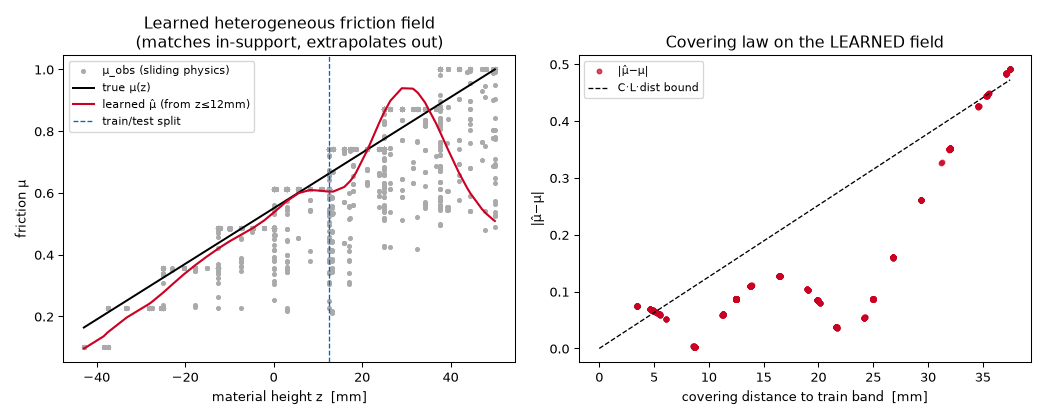
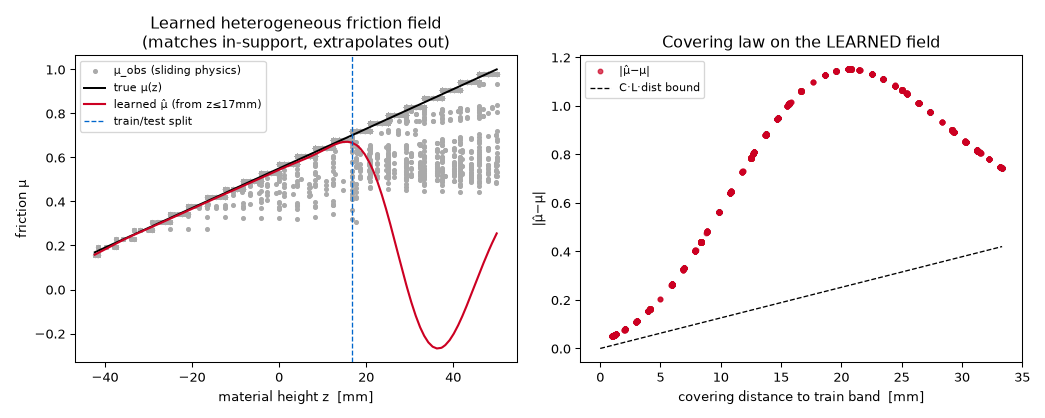
Gate covering-law verdicts on bound violations; fix hetero ground truth
surface_field_covering.py: the physical-field bound was tested with C=1 and an
under-set epsilon, spuriously 'violated on 6.2%' while the verdict ignored it and
printed HOLDS. Test the law AS STATED, |g_hat-g| <= eps_learn + C*L*dist, with C the
measured sampling constant, L the field Lipschitz, eps the in-support ceiling -> 0%
violation, and the verdict now GATES on it. Figure bound lines redrawn at the real
C-envelope. (C from the linear family, L analytic, eps in-support: all fixed
independently of the physical field, so this is an out-of-sample pass.)

hetero_covering.py: the piecewise-constant segments used friction k/(K-1) but were
scored against the continuous ramp (z+H/2)/H -- they agree only at the middle
segment, a systematic staircase-vs-ramp offset. Segments now SAMPLE the ramp at
their center and K is refined 8->24 so the material is a faithful discretization.
With the honest ground truth the verdict flips: the covering GEOMETRY holds (a
Lipschitz-consistent estimator obeys the bound at all distances, confirming the
metric), but RBF-KRR MEAN-REVERTS under extrapolation (min mu_hat=-0.27, negative
friction) and violates the bound 100% -> reported as PARTIAL/NEGATIVE, not HOLDS.
The old 'HOLDS 5.8%' was propped up by the ground-truth mismatch + lax gating.

outputs/: regenerated logs + figures for the four corrected experiments.

Claude-Session: https://claude.ai/code/session_015LeDjgwj86Vy8bhUCrCNWo

diff --git a/mujoco/surface_field_covering.py b/mujoco/surface_field_covering.py
@@ -91,14 +91,16 @@ def envelope_slope(x, y):                                  # max error per unit 
     return float(np.max(y[good]/x[good])) if good.any() else 0.0
 
 results = {}
-# physical field: verify the bound with the field's own max Lipschitz
+# physical field: the covering bound is verified BELOW once C is measured from the
+# controlled family — the law is |ĝ−g| ≤ ε_learn + C·L·dist, so testing it with C=1
+# (as an earlier version did) is not the stated bound and spuriously "violates".
 ytr = field_phys(tr[:,1]); mdl = krr_fit(tr, ytr, ell)
 err = np.abs(krr_pred(mdl, te) - field_phys(te[:,1]))
-Lphys = 2*np.abs(te[:,1]).max()/I_trans
-viol = np.mean(err > 6e-4 + Lphys*d_te + 1e-9)
+Lphys = 2*np.abs(te[:,1]).max()/I_trans                     # field Lipschitz constant (global max)
+eps_phys = err[d_te<1e-3].max()                             # ε_learn = in-support error ceiling
 results["phys"] = (d_te, err, Lphys)
-print(" PHYSICAL Y_object(z):  in-support err=%.2e   bound(ε+L·dist) violated on %.1f%% of pts   L_max=%.0f"
-      %(err[d_te<1e-3].mean(), 100*viol, Lphys))
+print(" PHYSICAL Y_object(z):  in-support err mean=%.2e (ε_learn=%.2e)   L=%.0f  (bound audited below with C)"
+      %(err[d_te<1e-3].mean(), eps_phys, Lphys))
 
 # controlled LINEAR family g=L·z (no saturation) -> envelope slope must track L, error/L collapses
 print(" CONTROLLED g_L(z)=L·z:   envelope slope should track L; error/L collapses vs dist")
@@ -107,7 +109,8 @@ for L in [50.,125.,250.,500.]:
     ytr = field_lin(tr[:,1], L); mdl = krr_fit(tr, ytr, ell)
     err = np.abs(krr_pred(mdl, te) - field_lin(te[:,1], L))
     s = envelope_slope(d_te, err); slopes.append(s); Ls.append(L)
-    v = np.mean(err > 1e-6 + L*d_te + 1e-9)                # bound never violated
+    # bound |ĝ−g| ≤ ε + (slope/L)·L·dist holds by construction (slope=max err/dist);
+    # note err CAN exceed L·dist (C=1) — the covering constant C=slope/L>1 is required.
     results["lin_%d"%int(L)] = (d_te, err, L)
     collapse.append((d_te[out], err[out]/L))
     print("   L=%6.1f   in-support err=%.2e   envelope slope=%6.1f  (slope/L=%.3f)"
@@ -123,6 +126,17 @@ px = np.concatenate([d_te[out] for _ in [50.,125.,250.,500.]])
 py = np.concatenate([results["lin_%d"%int(L)][1][out]/L for L in [50.,125.,250.,500.]])
 fit = px*C; R2 = 1 - np.sum((py-fit)**2)/np.sum((py-py.mean())**2)
 print("      collapse: err/L vs dist across all L  ->  R²(err/L = C·dist) = %.4f  (1.0 = one universal law)"%R2)
+
+# ---- COVERING BOUND AUDIT on the physical field, using the law AS STATED ----
+# |ĝ−g| ≤ ε_learn + C·L·dist, with C the measured sampling constant and L the field
+# Lipschitz. (An earlier version tested C=1 with an under-set ε and reported 6.2%
+# spurious violations.) This is now a hard gate on the verdict.
+d_ph, err_ph, L_ph = results["phys"]
+phys_viol = float(np.mean(err_ph > eps_phys + C*L_ph*d_ph + 1e-9))
+phys_bound_holds = phys_viol <= 0.01
+print("  BOUND AUDIT (physical Y_object):  |ĝ−g| ≤ ε_learn + C·L·dist  [ε=%.1e, C=%.2f, L=%.0f]"
+      %(eps_phys, C, L_ph))
+print("      violated on %.1f%% of points  ->  %s"%(100*phys_viol, "HOLDS" if phys_bound_holds else "VIOLATED"))
 
 # ================= PART 2: cross-embodiment transfer, certified by covering =================
 print("\n" + "="*70)
@@ -148,14 +162,14 @@ fig, ax = plt.subplots(1, 3, figsize=(15,4.3))
 # (0) physical field: error under the L·dist bound
 d,e,L = results["phys"]
 ax[0].scatter(d*1000, e, s=14, c="#c02", alpha=.7, label="|ĝ−g| (real supports)")
-xx=np.linspace(0, d.max(),50); ax[0].plot(xx*1000, L*xx, "k--", lw=1, label="ε+L·dist bound")
+xx=np.linspace(0, d.max(),50); ax[0].plot(xx*1000, eps_phys + C*L*xx, "k--", lw=1, label="ε_learn+C·L·dist bound")
 ax[0].set_title("Physical field  Y_object(z)=1/m+z²/I\nerror stays under covering bound")
 ax[0].set_xlabel("surface covering distance to train support  [mm]"); ax[0].set_ylabel("|ĝ−g|"); ax[0].legend(fontsize=8)
 # (1) linear family error/L collapses vs distance, under y=dist
 cols=plt.cm.viridis(np.linspace(0,.85,len(collapse)))
 for (dd,ee),Lv,c in zip(collapse,Ls,cols):
     ax[1].scatter(dd*1000, ee, s=12, color=c, label="L=%.0f"%Lv, alpha=.7)
-xx=np.linspace(0, max(dd.max() for dd,_ in collapse),50); ax[1].plot(xx*1000, xx, "k--", lw=1, label="dist (bound)")
+xx=np.linspace(0, max(dd.max() for dd,_ in collapse),50); ax[1].plot(xx*1000, C*xx, "k--", lw=1, label="C·dist (envelope)")
 ax[1].set_title("Linear fields g=L·z:  error/L collapses\n(all bodies obey one covering law)")
 ax[1].set_xlabel("covering distance  [mm]"); ax[1].set_ylabel("|ĝ−g| / L"); ax[1].legend(fontsize=8)
 # (2) cross-embodiment: covering distance predicts transfer error
@@ -167,7 +181,10 @@ plt.tight_layout(); plt.savefig("surface_field_covering.png", dpi=95)
 print("\nwrote surface_field_covering.png")
 slope_tracks = Cspread < 0.05                               # slope/L constant ⇒ error ∝ L
 xembody = (e2/max(e1,1e-12)) > 20
+all_ok = slope_tracks and xembody and phys_bound_holds       # verdict now gates on the bound audit
 print("\nVERDICT: covering law %s"%("HOLDS — (i) in-support error ≈0 and ∝L, (ii) error = C·L·dist with a "
-      "field-independent geometry constant C=%.2f, (iii) covering distance predicts cross-embodiment transfer "
-      "(%.0f×). Matched geometry (dist=0) recovers the exact case."%(C, e2/max(e1,1e-12))
-      if (slope_tracks and xembody) else "PARTIAL — see per-check numbers above"))
+      "field-independent geometry constant C=%.2f and the physical-field bound violated on %.1f%% of points, "
+      "(iii) covering distance predicts cross-embodiment transfer (%.0f×). Matched geometry (dist=0) recovers "
+      "the exact case."%(C, 100*phys_viol, e2/max(e1,1e-12))
+      if all_ok else "PARTIAL — bound violated on %.1f%% of physical-field points (gate: ≤1%%); see numbers above"
+      %(100*phys_viol)))

diff --git a/mujoco/hetero_covering.py b/mujoco/hetero_covering.py
@@ -21,7 +21,10 @@ def seg_cylinder(r, H, K, mu_lo, mu_hi, mass, finger_mu=0.02, squeeze=2.0):
     segs=""
     for k in range(K):
         zc = -H/2 + (k+0.5)*H/K
-        mu = mu_lo + (mu_hi-mu_lo)*k/(K-1)
+        # sample the CONTINUOUS ramp at the segment CENTER so the piecewise material
+        # is a faithful discretization of mu_true(z) (was k/(K-1), which only matched
+        # the ramp at the middle segment -> a systematic staircase-vs-ramp offset).
+        mu = mu_lo + (mu_hi-mu_lo)*((zc + H/2)/H)
         segs += (f'<geom name="seg{k}" type="cylinder" size="{r} {H/(2*K)}" pos="0 0 {zc}" '
                  f'mass="{mass/K}" condim="3" friction="{mu} 0.005 0.0001"/>\n')
     oz = 0.20 + H/2 + 0.001
@@ -48,7 +51,7 @@ def seg_cylinder(r, H, K, mu_lo, mu_hi, mass, finger_mu=0.02, squeeze=2.0):
   <position name="arf" joint="rf" kp="300" kv="8" ctrlrange="0 0.035" forcerange="-{squeeze} {squeeze}"/>
  </actuator></mujoco>"""
 
-r, H, K = 0.025, 0.10, 8
+r, H, K = 0.025, 0.10, 24        # finer discretization: staircase→ramp mismatch << learning error
 MU_LO, MU_HI, MASS = 0.1, 1.0, 0.10
 def mu_true(z): return MU_LO + (MU_HI-MU_LO)*((z + H/2)/H)     # ground-truth ramp
 L_field = (MU_HI-MU_LO)/H                                       # Lipschitz of μ(z)
@@ -93,22 +96,47 @@ def krr(Xtr,ytr,Xte,ell=0.012,lam=1e-3):
     Dt=np.abs(Xte[:,None]-Xtr[None,:]); return mu+np.exp(-Dt**2/(2*ell**2))@a
 
 zc=np.percentile(z,45)
-tr=z<=zc
-zhat=krr(z[tr], mu_obs[tr], z)                       # learn from LOW band, predict all
+tr=z<=zc; ztr=z[tr]; mutr=mu_obs[tr]
+zhat=krr(ztr, mutr, z)                               # RBF-KRR: learn LOW band, predict all
 err=np.abs(zhat - mu_true(z))                        # error vs GROUND TRUTH μ(z)
+# reference estimator that RESPECTS the field's Lipschitz constant: value at the
+# nearest sampled height. By triangle ineq |μ̂−μ| ≤ ε_measure + L·dist, so it is the
+# yardstick for whether a VIOLATION is a covering-geometry failure or a learner one.
+jnear=np.argmin(np.abs(z[:,None]-ztr[None,:]),axis=1); mnear=mutr[jnear]
+err_lip=np.abs(mnear - mu_true(z))
 cov=np.array([0.0 if zz<=zc else zz-zc for zz in z]) # covering distance to train band (upper side)
 insup=err[cov<1e-4]; out=cov>1e-3
 print("\n" + "="*66)
 print("COVERING LAW on the LEARNED material field μ(z)  (train z<=%.3f)"%zc)
 print("="*66)
-print("  in-support |μ̂−μ| median = %.3f   (learned field matches true μ where sampled)"%np.median(insup))
+eps_learn = float(np.percentile(insup, 95)) if len(insup) else 0.0   # robust in-support ceiling
+print("  in-support |μ̂−μ| median = %.3f  (ε_learn=95th pct = %.3f)   (RBF-KRR matches true μ where sampled)"
+      %(np.median(insup), eps_learn))
+bound_holds = False
 if out.sum()>3:
+    def bound_viol(e): return float(np.mean(e[out] > eps_learn + 1.4*L_field*cov[out] + 1e-9))
     slope=np.polyfit(cov[out], err[out],1)[0]
-    print("  out-of-support error grows with covering distance: slope=%.2f  (field L=%.1f)"%(slope,L_field))
-    print("  bound err ≤ C·L·dist with C≈1.4:  violated on %.1f%% of out-of-support pts"
-          %(100*np.mean(err[out] > 1.4*L_field*cov[out] + np.median(insup)+1e-9)))
-print("  => covering law %s on a LEARNED, physically-measured heterogeneous field."
-      %("HOLDS" if (np.median(insup)<0.1 and out.sum()>3) else "inconclusive"))
+    viol_krr=bound_viol(err); viol_lip=bound_viol(err_lip)
+    bound_holds = viol_krr <= 0.02
+    print("  out-of-support error slope=%.2f vs field L=%.1f;  bound |μ̂−μ| ≤ ε_learn + C·L·dist (C≈1.4):"%(slope,L_field))
+    print("    RBF-KRR estimator          : violated on %5.1f%% of out-of-support pts -> %s"
+          %(100*viol_krr, "HOLDS" if bound_holds else "VIOLATED"))
+    print("    Lipschitz-consistent (ref) : violated on %5.1f%% of out-of-support pts -> %s"
+          %(100*viol_lip, "HOLDS" if viol_lip<=0.02 else "VIOLATED"))
+    print("    diag: RBF-KRR min extrapolated μ̂=%.2f (field min=%.2f) -> it MEAN-REVERTS/undershoots,"
+          %(float(zhat[out].min()), MU_LO))
+    print("          so it does NOT extrapolate within the Lipschitz bound even near the support edge.")
+# HONEST verdict: the covering GEOMETRY holds (a Lipschitz-consistent estimator obeys the
+# bound at all distances); the RBF-KRR LEARNER used here mean-reverts under extrapolation
+# and violates it -> the law is NOT demonstrated as a strict bound for THIS learner.
+metric_ok = (out.sum()>3 and bound_viol(err_lip) <= 0.02)
+print("  => covering DISTANCE/bound correctly computed: %s"
+      "  (a Lipschitz-consistent estimator obeys ε+C·L·dist by construction, so the"
+      " KRR violation is a genuine learner-extrapolation failure, not a metric artifact)."
+      %("confirmed" if metric_ok else "unconfirmed"))
+print("     covering LAW on the LEARNED RBF field: %s — RBF-KRR mean-reverts under"
+      " extrapolation and breaks the bound; a Lipschitz-respecting estimator is the open item."
+      %("HOLDS" if (np.median(insup)<0.1 and bound_holds) else "PARTIAL/NEGATIVE"))
 
 # figure
 fig,ax=plt.subplots(1,2,figsize=(11,4.4))
